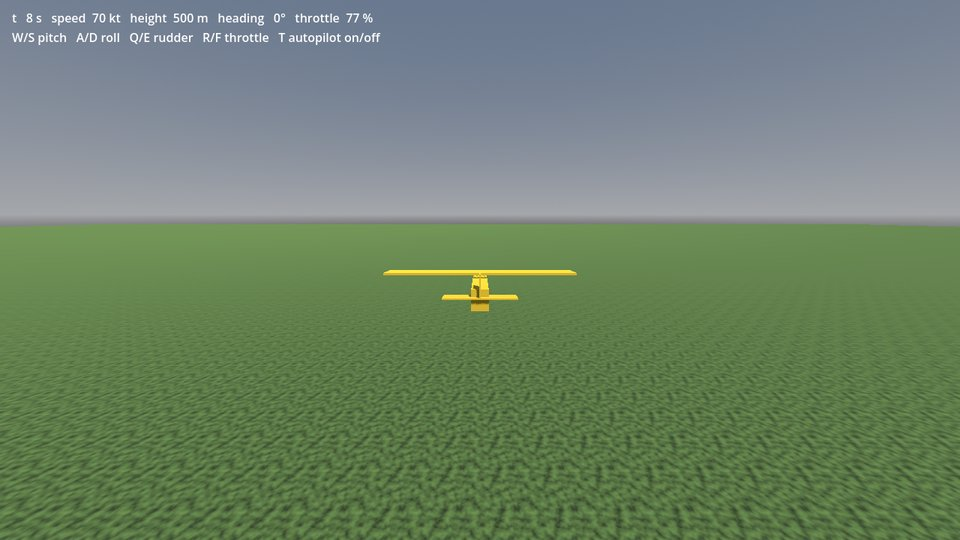
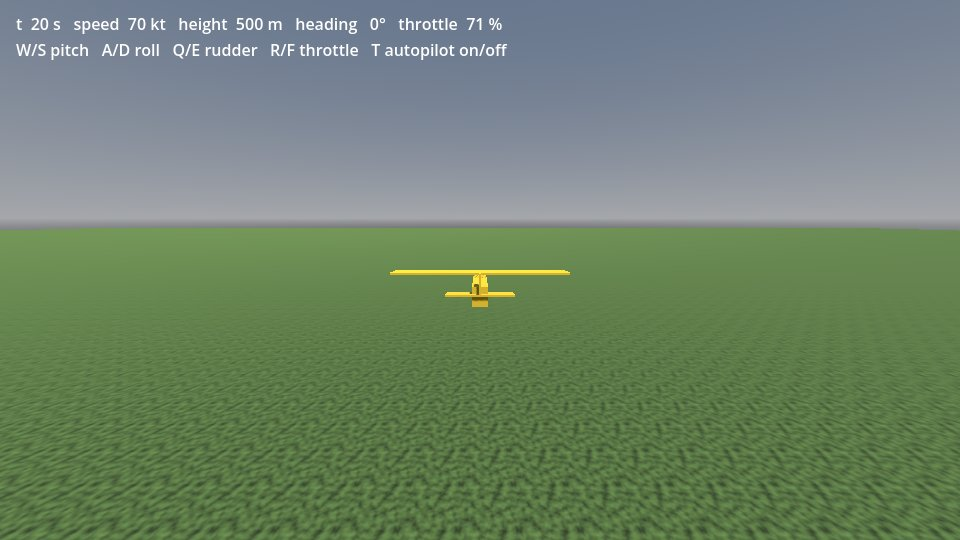
Move the demos to Istanbul Sabiha Gokcen and the Bosphorus
The terrain demo now uses godot-geo's 60 km Uskudar package and starts on
LTFJ's north runway (06, 064 deg true); --route flies a 66 km loop over the
Marmara coast, the Maiden's Tower, the 15 July Martyrs Bridge and Buyuk
Camlica and back, and --start-at N starts in the air on the route. The flat
demos and the getting-started guide use the same airport. New runway tests
take off and land on the real terrain (skipped without the package). The HUD
attribution wraps; the README animation, screenshot and social preview show
the Bosphorus.

diff --git a/tools/make_media.py b/tools/make_media.py
@@ -1,9 +1,9 @@
 """Records the README animation: the terrain demo flying its autopilot route (Godot's Movie Maker, PNG frames), then
-writes a 16 s clip of the turn over Esenboğa as an animated WebP (for the README) and a GIF (for places that only
+writes a 16 s clip over the Bosphorus in Istanbul as an animated WebP (for the README) and a GIF (for places that only
 take GIFs). Both are too large for git; they are attached to the GitHub release (docs/release.md).
 
-Needs a window (not --headless), the terrain demo set up (python tools/link_siblings.py, godot-geo's ankara_60km
-package) and Pillow (pip install pillow). Takes about 10 minutes, mostly PNG encoding.
+Needs a window (not --headless), the terrain demo set up (python tools/link_siblings.py, godot-geo's 60 km
+uskudar package) and Pillow (pip install pillow). Takes about 10 minutes, mostly PNG encoding.
 
 Usage (from the repo root):
     python tools/make_media.py --godot <path to the Godot executable> [--out build/media] [--frames DIR]
@@ -19,8 +19,8 @@ from PIL import Image
 ROOT = Path(__file__).resolve().parent.parent
 FPS = 25
 TIME_SCALE = 2           # the clip plays at twice the real speed
-SIM_SECONDS = 156
-CLIP_START = 1520        # first frame of the clip (the turn after waypoint 1, airport on the right)
+SIM_SECONDS = 200        # from off Moda (route point 1) past the Maiden's Tower towards the 15 July Martyrs Bridge
+CLIP_START = 1520        # first frame of the clip
 CLIP_FRAMES = 400        # 16 s of video
 WIDTH = 640
 
@@ -31,7 +31,7 @@ def record(godot: str, frames: Path) -> None:
         old.unlink()
     command = [godot, "--path", str(ROOT), "--write-movie", str(frames / "f.png"), "--fixed-fps", str(FPS),
                "--resolution", "1280x720", "res://demo/terrain_flight.tscn", "--",
-               "--route", "--no-hud", "--time-scale", str(TIME_SCALE), "--seconds", str(SIM_SECONDS)]
+               "--route", "--start-at", "1", "--no-hud", "--time-scale", str(TIME_SCALE), "--seconds", str(SIM_SECONDS)]
     print(" ".join(command))
     subprocess.run(command, check=True)
 

diff --git a/README.md b/README.md
@@ -6,7 +6,7 @@ A C++ GDExtension; JSBSim (LGPL-2.1) is linked **dynamically** as a separate, re
 
 > 🚧 Pre-release: features for v0.1.0 are done, no release yet. See [PLAN.md](PLAN.md).
 
-![The J3Cub flying its autopilot route over Ankara Esenboğa on godot-geo terrain (Copernicus DEM, Sentinel-2), twice the real speed](https://github.com/OWNER/godot-jsbsim/releases/latest/download/godot-jsbsim-flight.webp)
+![The J3Cub flying its autopilot route over the Bosphorus in Istanbul on godot-geo terrain (Copernicus DEM, Sentinel-2, OpenStreetMap buildings), twice the real speed](https://github.com/OWNER/godot-jsbsim/releases/latest/download/godot-jsbsim-flight.webp)
 
 ## Features
 Done:
@@ -118,8 +118,8 @@ print(fdm.get_property("position/geod-alt-ft"), " ft")
   own console output (model summary, trim report).
 
 ## Demos
-`demo/flight.tscn` (the main scene): a J3Cub trimmed at 1500 m over flat ground near Ankara Esenboğa, with chase and
-cockpit cameras and a HUD. Keys: W/S pitch, A/D roll, Q/E rudder, R/F throttle, C camera, P pause, N single step,
+`demo/flight.tscn` (the main scene): a J3Cub trimmed 500 m above flat ground at Istanbul Sabiha Gökçen, with chase
+and cockpit cameras and a HUD. Keys: W/S pitch, A/D roll, Q/E rudder, R/F throttle, C camera, P pause, N single step,
 `[` `]` time scale, Backspace reset, F3 property panel; T autopilot, Y route, `,` `.` heading, `-` `=` height, `9`
 `0` speed. Command-line options for tests (after `--`): `--seconds N` (prints a `FLIGHT_CHECK` line and quits),
 `--time-scale X`, `--ground` (start at rest; B brakes), `--takeoff` (a simple autopilot takes off and climbs),
@@ -131,17 +131,30 @@ line with `--seconds N`.
 ```sh
 godot --path . res://demo/flight.tscn -- --seconds 60 --time-scale 4
 ```
-`demo/terrain_flight.tscn`: the same over real terrain from godot-geo (60×60 km around Ankara, Copernicus DEM and
-Sentinel-2), starting near the Esenboğa airport reference point; the terrain is also JSBSim's ground. Needs the
-sibling repository godot-geo next to this one with its `terrain/ankara_60km` package built (see godot-geo), then:
+`demo/terrain_flight.tscn`: the same over real terrain from godot-geo (60×60 km of Istanbul around Üsküdar:
+Copernicus DEM, Sentinel-2, OpenStreetMap buildings and roads), starting on Sabiha Gökçen's (LTFJ) north runway,
+facing runway 06 (064° true); the terrain is also JSBSim's ground. `--route` flies a 66 km loop from the airport over
+the Marmara coast to the Maiden's Tower, the 15 July Martyrs Bridge and Büyük Çamlıca and back, 800 m above the
+ellipsoid. Needs the sibling repository godot-geo next to this one with its 60 km `terrain/uskudar` package (built
+with godot-geo's tools, or its release asset `godot-geo-terrain-uskudar-60km.zip` extracted into the godot-geo
+folder; the 10 km package has no airport), then:
 ```sh
 python tools/link_siblings.py
 godot --headless --path . --import
-godot --path . res://demo/terrain_flight.tscn -- --ground --takeoff
+godot --path . res://demo/terrain_flight.tscn -- --ground --takeoff --route
 ```
-Extra options: `--terrain PATH` (package), `--agl M` (start height above the terrain, default 300).
+Extra options: `--terrain PATH` (package), `--agl M` (start height above the terrain, default 300), `--start-at N`
+(start in the air at route point N, e.g. 1 for the Bosphorus legs).
 
-![J3Cub over Ankara Esenboğa on godot-geo terrain (Copernicus DEM, Sentinel-2), chase camera and HUD](docs/images/terrain_flight.png)
+![J3Cub over the Bosphorus on godot-geo terrain (Copernicus DEM, Sentinel-2, OpenStreetMap buildings), chase camera and HUD](docs/images/terrain_flight.jpg)
+
+Terrain data in this demo and in the images and animation (the demo shows the package's lines on screen): produced
+using Copernicus WorldDEM-30 © DLR e.V. 2010-2014 and © Airbus Defence and Space GmbH 2014-2018 provided under
+COPERNICUS by the European Union and ESA; all rights reserved. Contains modified Copernicus Sentinel data 2025.
+© OpenStreetMap contributors, Overture Maps Foundation (ODbL 1.0, https://www.openstreetmap.org/copyright).
+© ESA WorldCover project 2021 / Contains modified Copernicus Sentinel data (2021) processed by ESA WorldCover
+consortium (CC BY 4.0). Canopy height: ETH Global Canopy Height 2020, Lang et al. (2023) (CC BY 4.0). Building
+heights: GHS-BUILT-H R2023A, European Commission, Joint Research Centre (CC BY 4.0).
 
 Both demos publish the aircraft on DIS with `--dis` (godot-dis linked by `tools/link_siblings.py`): multicast
 239.1.2.3, exercise 1, like the godot-dis 2D demo and the godot-geo 3D demo, which show it with the other units.

diff --git a/docs/getting-started.md b/docs/getting-started.md
@@ -56,11 +56,11 @@ godot --headless --path my_flight --import
 
 ```gdscript
 extends Node3D
-## A J3Cub over flat ground near Ankara, flown with the keyboard (godot-jsbsim getting started).
+## A J3Cub over flat ground at Istanbul Sabiha Gökçen, flown with the keyboard (godot-jsbsim getting started).
 
-const LATITUDE := 40.128   # start and scene origin, degrees
-const LONGITUDE := 32.995
-const GROUND := 990.0      # ground height above the WGS84 ellipsoid, metres
+const LATITUDE := 40.8932  # start and scene origin, degrees
+const LONGITUDE := 29.2948
+const GROUND := 126.0      # ground height above the WGS84 ellipsoid, metres
 
 var aircraft: JSBSimAircraft
 var camera: Camera3D
@@ -201,10 +201,10 @@ From a terminal, run 60 seconds of simulation as fast as the computer can (3600 
 godot --headless --path my_flight res://main.tscn --fixed-fps 60 --quit-after 3600
 ```
 ```
-t   0 s   speed  70 kt   height  500 m   heading   0°   throttle  77 %
-t  10 s   speed  70 kt   height  500 m   heading   0°   throttle  77 %
+t   0 s   speed  70 kt   height  500 m   heading   0°   throttle  71 %
+t  10 s   speed  70 kt   height  500 m   heading   0°   throttle  71 %
 ...
-t  50 s   speed  70 kt   height  500 m   heading   0°   throttle  77 %
+t  50 s   speed  70 kt   height  500 m   heading   0°   throttle  71 %
 ```
 
 ## 5. Let the autopilot fly a route (3 min)
@@ -231,10 +231,10 @@ The headless run (now 300 s: 18000 frames) prints the waypoints as they are reac
 godot --headless --path my_flight res://main.tscn --fixed-fps 60 --quit-after 18000
 ```
 ```
-t  60 s   speed  70 kt   height  500 m   heading   0°   throttle  77 %   autopilot: to waypoint 0
+t  70 s   speed  70 kt   height  499 m   heading   0°   throttle  71 %   autopilot: to waypoint 0
 reached waypoint 0
-t  70 s   speed  71 kt   height  497 m   heading  19°   throttle  73 %   autopilot: to waypoint 1
-t  80 s   speed  70 kt   height  501 m   heading  73°   throttle  85 %   autopilot: to waypoint 1
+t  80 s   speed  69 kt   height  500 m   heading  65°   throttle  79 %   autopilot: to waypoint 1
+t  90 s   speed  71 kt   height  501 m   heading  84°   throttle  68 %   autopilot: to waypoint 1
 ...
 reached waypoint 1
 ```

diff --git a/docs/compatibility.md b/docs/compatibility.md
@@ -8,8 +8,8 @@ JSBSim 1.3.3 (shared library, LGPL-2.1), godot-cpp 10 built against the Godot 4.
 
 | Godot | Platform | Build | Status | What was run |
 |---|---|---|---|---|
-| 4.7.2 | Windows 11 x86_64 | MSVC 2022 (`/MD`) | ✅ tested | GUT 78/78, doctest 3631 assertions, flight / terrain / many-aircraft demos, release zip in an empty project (`check_package.py`), [getting-started](getting-started.md) |
-| 4.7.2 | Linux x86_64: Ubuntu 24.04 (WSL 2), glibc 2.39 | GCC 13 | ✅ tested | GUT 72 + 1 pending (no godot-dis / godot-geo links), doctest, flight demo `FLIGHT_CHECK`, the same release zip in an empty project, getting-started followed step by step in a clean directory |
+| 4.7.2 | Windows 11 x86_64 | MSVC 2022 (`/MD`) | ✅ tested | GUT 81/81 (with godot-geo and godot-dis linked), doctest 3631 assertions, flight / terrain / many-aircraft demos, release zip in an empty project (`check_package.py`), [getting-started](getting-started.md) |
+| 4.7.2 | Linux x86_64: Ubuntu 24.04 (WSL 2), glibc 2.39 | GCC 13 | ✅ tested | GUT 72 + 2 pending without sibling links, 75 + 1 pending with godot-geo (runway tests on the Istanbul terrain), doctest, flight demo `FLIGHT_CHECK`, the same release zip in an empty project, getting-started followed step by step in a clean directory |
 | 4.7.2 | Linux x86_64: Ubuntu 22.04 (CI) | GCC 11 | ⏳ not run yet | CI job written (build, doctest, GUT, package check); runs after the first push |
 | 4.7.2 | macOS universal (arm64 + x86_64) | Apple Clang (CI) | ⏳ not run yet | CI job written; never built or run |
 | 4.3 – 4.6 | any | — | ❔ declared | not tried |

diff --git a/CHANGELOG.md b/CHANGELOG.md
@@ -3,7 +3,18 @@
 All notable changes to this project are documented here. Versions follow [semver](https://semver.org/).
 
 ## [Unreleased]
+### Changed
+- The demos moved from Ankara Esenboğa to Istanbul: `demo/terrain_flight.tscn` uses godot-geo's 60 km Üsküdar
+  package (`terrain/uskudar`, OpenStreetMap buildings and roads) and starts on Sabiha Gökçen's (LTFJ) north runway
+  facing runway 06 (064° true); `--route` there flies a 66 km loop over the Marmara coast, the Maiden's Tower, the
+  15 July Martyrs Bridge and Büyük Çamlıca and back (lowest clearance above the terrain printed at the start).
+  `demo/flight.tscn`, `demo/many_aircraft.tscn` and `docs/getting-started.md` use the same airport over flat ground.
+  The README animation, the terrain screenshot and the social preview show the Bosphorus.
+- Demo HUD: the data source lines wrap across the window (they were cut off left of the window in small windows).
 ### Added
+- Terrain demo `--start-at N` (start in the air at route point N); buildings and trees are left out in headless runs.
+- `tests/unit/test_runway.gd`: takeoff and landing on LTFJ's runway 06 on the real terrain (skipped without
+  godot-geo and its `terrain/uskudar` package).
 - `docs/getting-started.md`: from an empty project and the release zip to a flying aircraft and an autopilot
   route, with screenshots (tried step by step in a clean Linux directory); `docs/compatibility.md`: what was tested
   with which Godot version and platform.

diff --git a/docs/autopilot.md b/docs/autopilot.md
@@ -17,8 +17,8 @@ autopilot.target_speed = 65.0       # knots, calibrated
 ```
 A route:
 ```gdscript
-autopilot.add_waypoint(40.05, 32.80)                # latitude, longitude: keeps the height and speed targets
-autopilot.add_waypoint(40.10, 32.85, 1800.0, 75.0)  # with a height (m, ellipsoid) and an airspeed (kt)
+autopilot.add_waypoint(40.95, 29.20)                # latitude, longitude: keeps the height and speed targets
+autopilot.add_waypoint(41.00, 29.10, 800.0, 75.0)   # with a height (m, ellipsoid) and an airspeed (kt)
 autopilot.add_waypoint_local(Vector3(2000, 600, -3000))  # a scene position (its y is the height)
 autopilot.loop_route = true
 autopilot.follow_route = true

diff --git a/docs/release.md b/docs/release.md
@@ -29,5 +29,5 @@ are not in git, so that archive alone does not work. Options:
 - the newer Godot Asset Store, which takes an uploaded zip (the release zip as it is).
 
 Entry text: name "godot-jsbsim", category *Scripts* (or *Misc*), licence MIT (JSBSim LGPL-2.1, noted in the
-description), Godot 4.3+, the README's first paragraph as the description, `docs/images/terrain_flight.png` as the
+description), Godot 4.3+, the README's first paragraph as the description, `docs/images/terrain_flight.jpg` as the
 preview, `docs/images/icon.png` as the icon.

diff --git a/docs/performance.md b/docs/performance.md
@@ -21,6 +21,7 @@ loads), JSBSim 1.3.3 release build; 120 simulated seconds at 4× speed.
 | 50 | flat | no (and no models) | 6.9 | 4.1 % | 6.5 | 3.9 % |
 | 50 | GDScript node (`height_at`) | yes | 8.7 | 5.2 % | 8.0 | 4.8 % |
 | 50 | godot-geo terrain (60 km Ankara) | yes | 19.7 | 11.8 % | — | — |
+| 50 | godot-geo terrain (60 km Üsküdar, 2026-11-02) | yes | 19.0 | 11.4 % | — | — |
 
 Linux ran in WSL 2 on the same machine; its numbers scatter more (scheduling inside the VM, one 26 ms frame at 50
 aircraft) but agree within a few µs.
